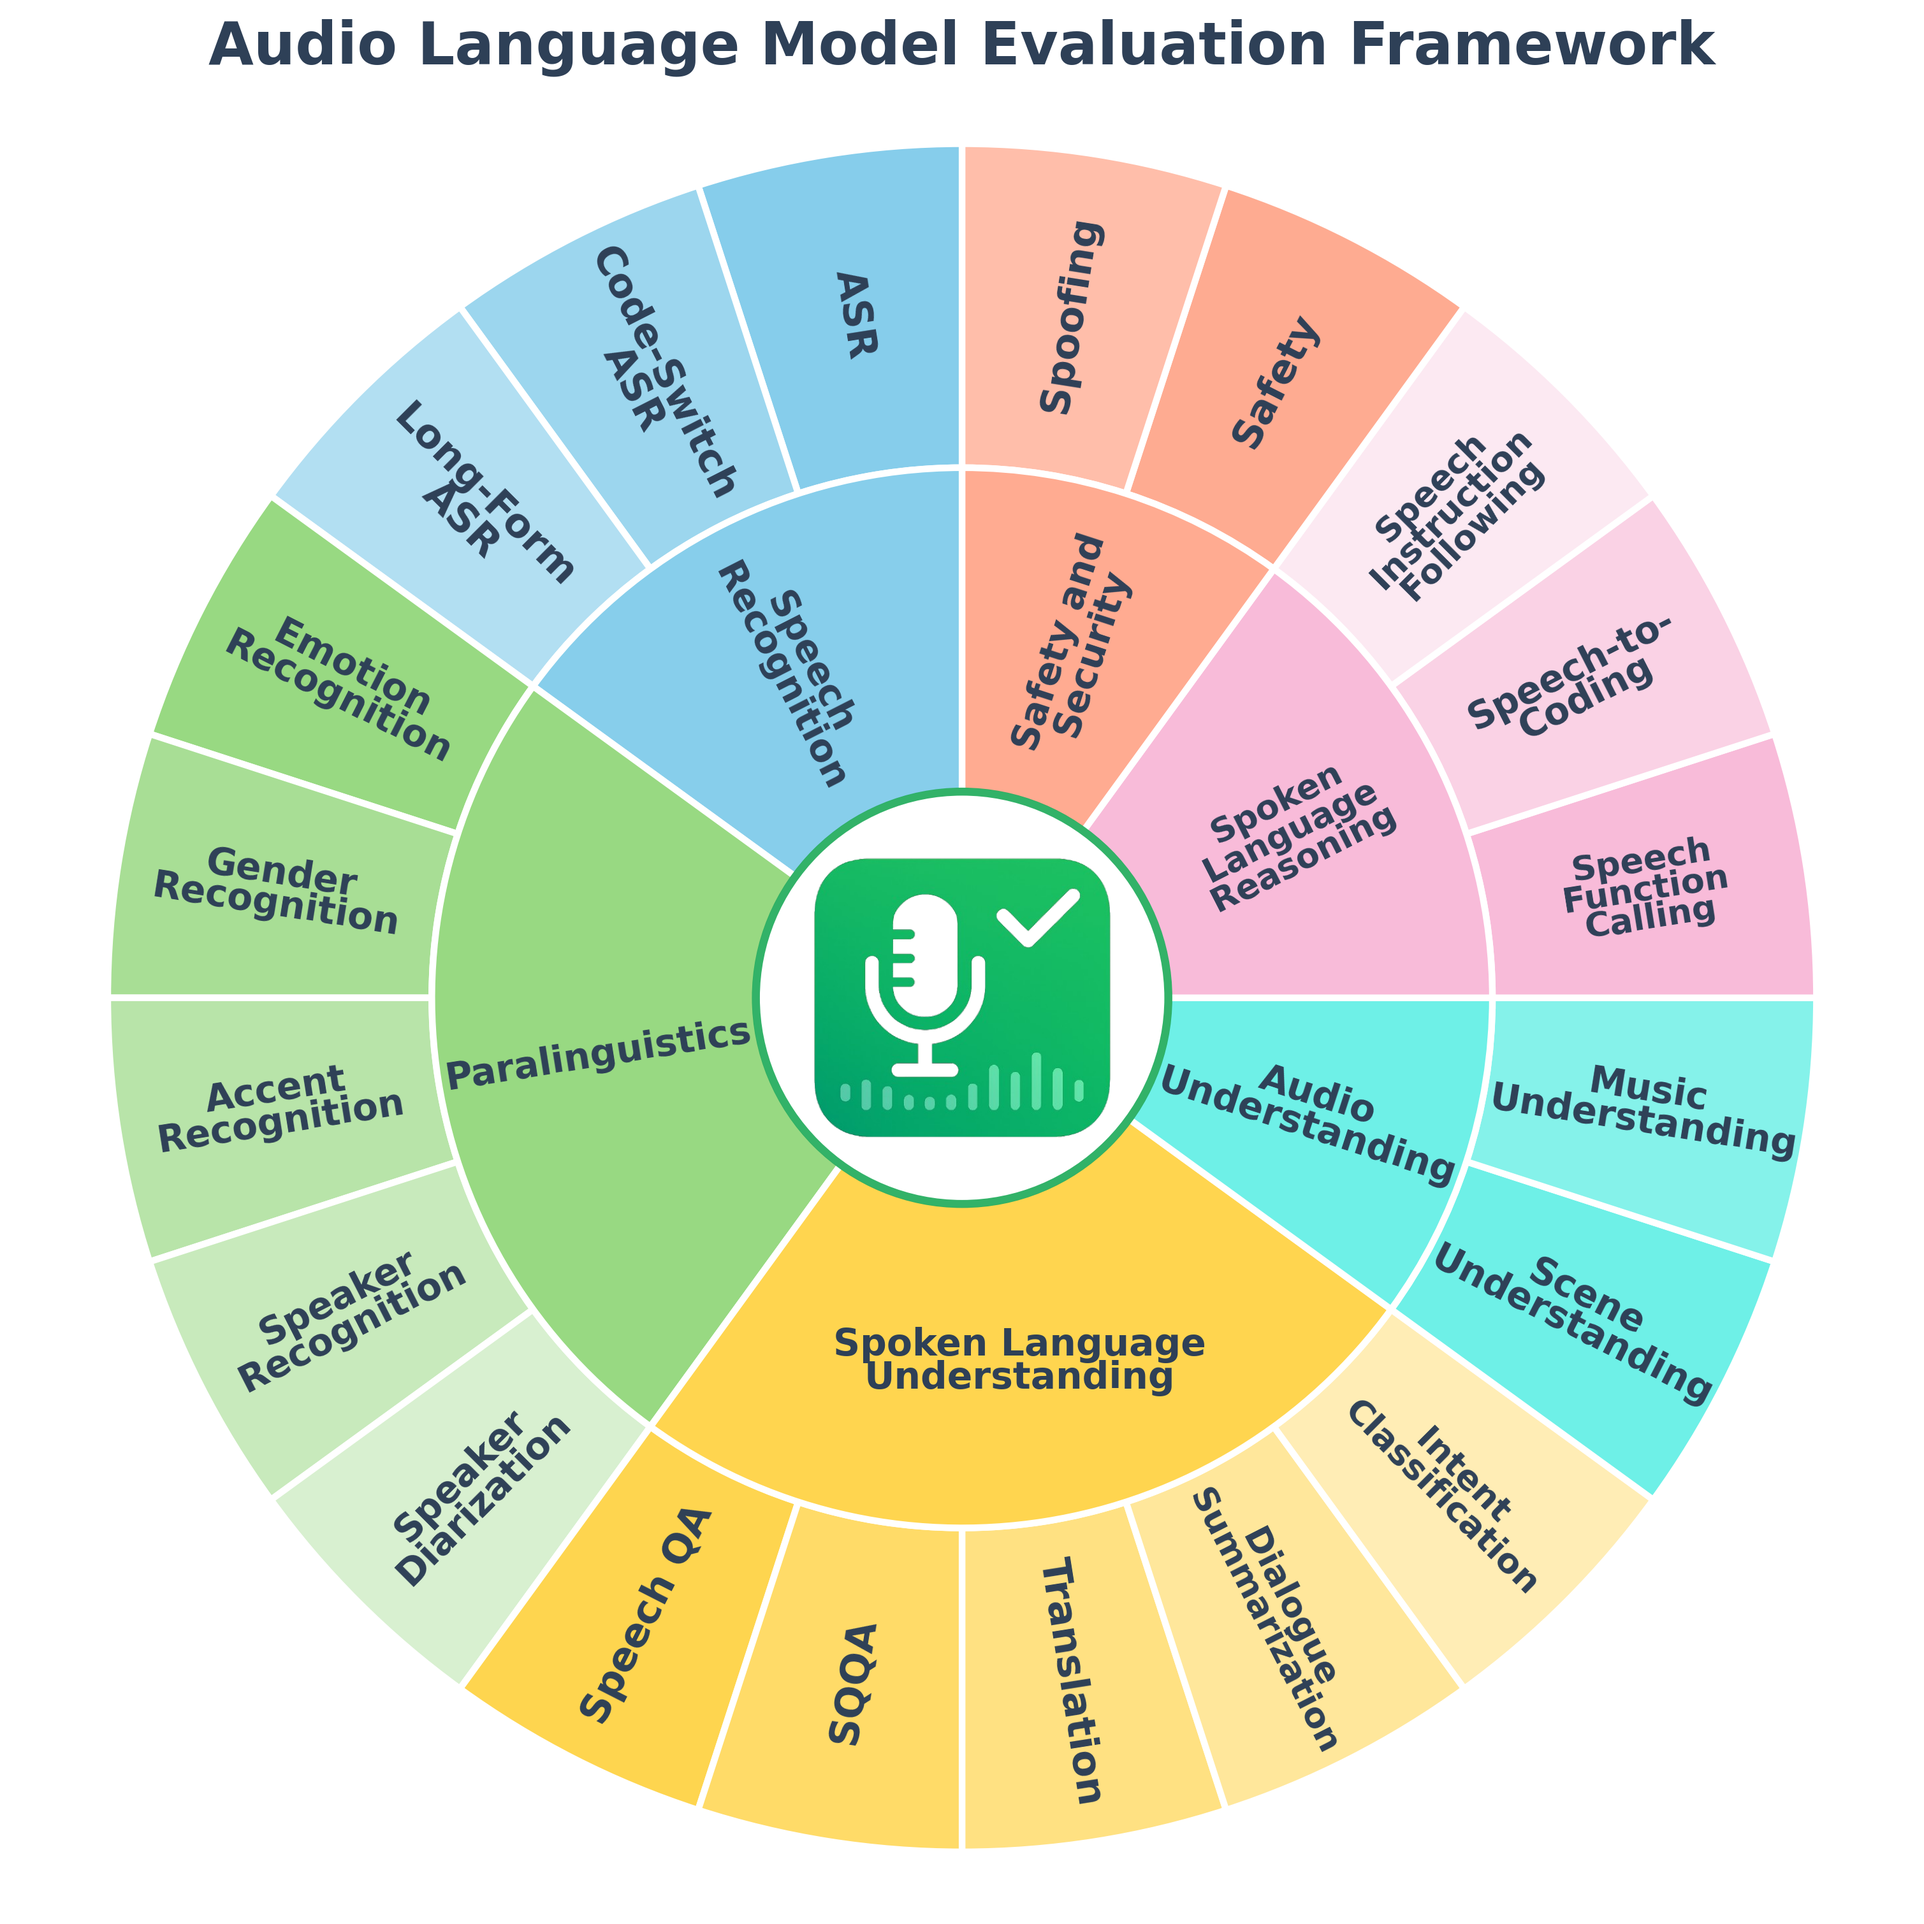
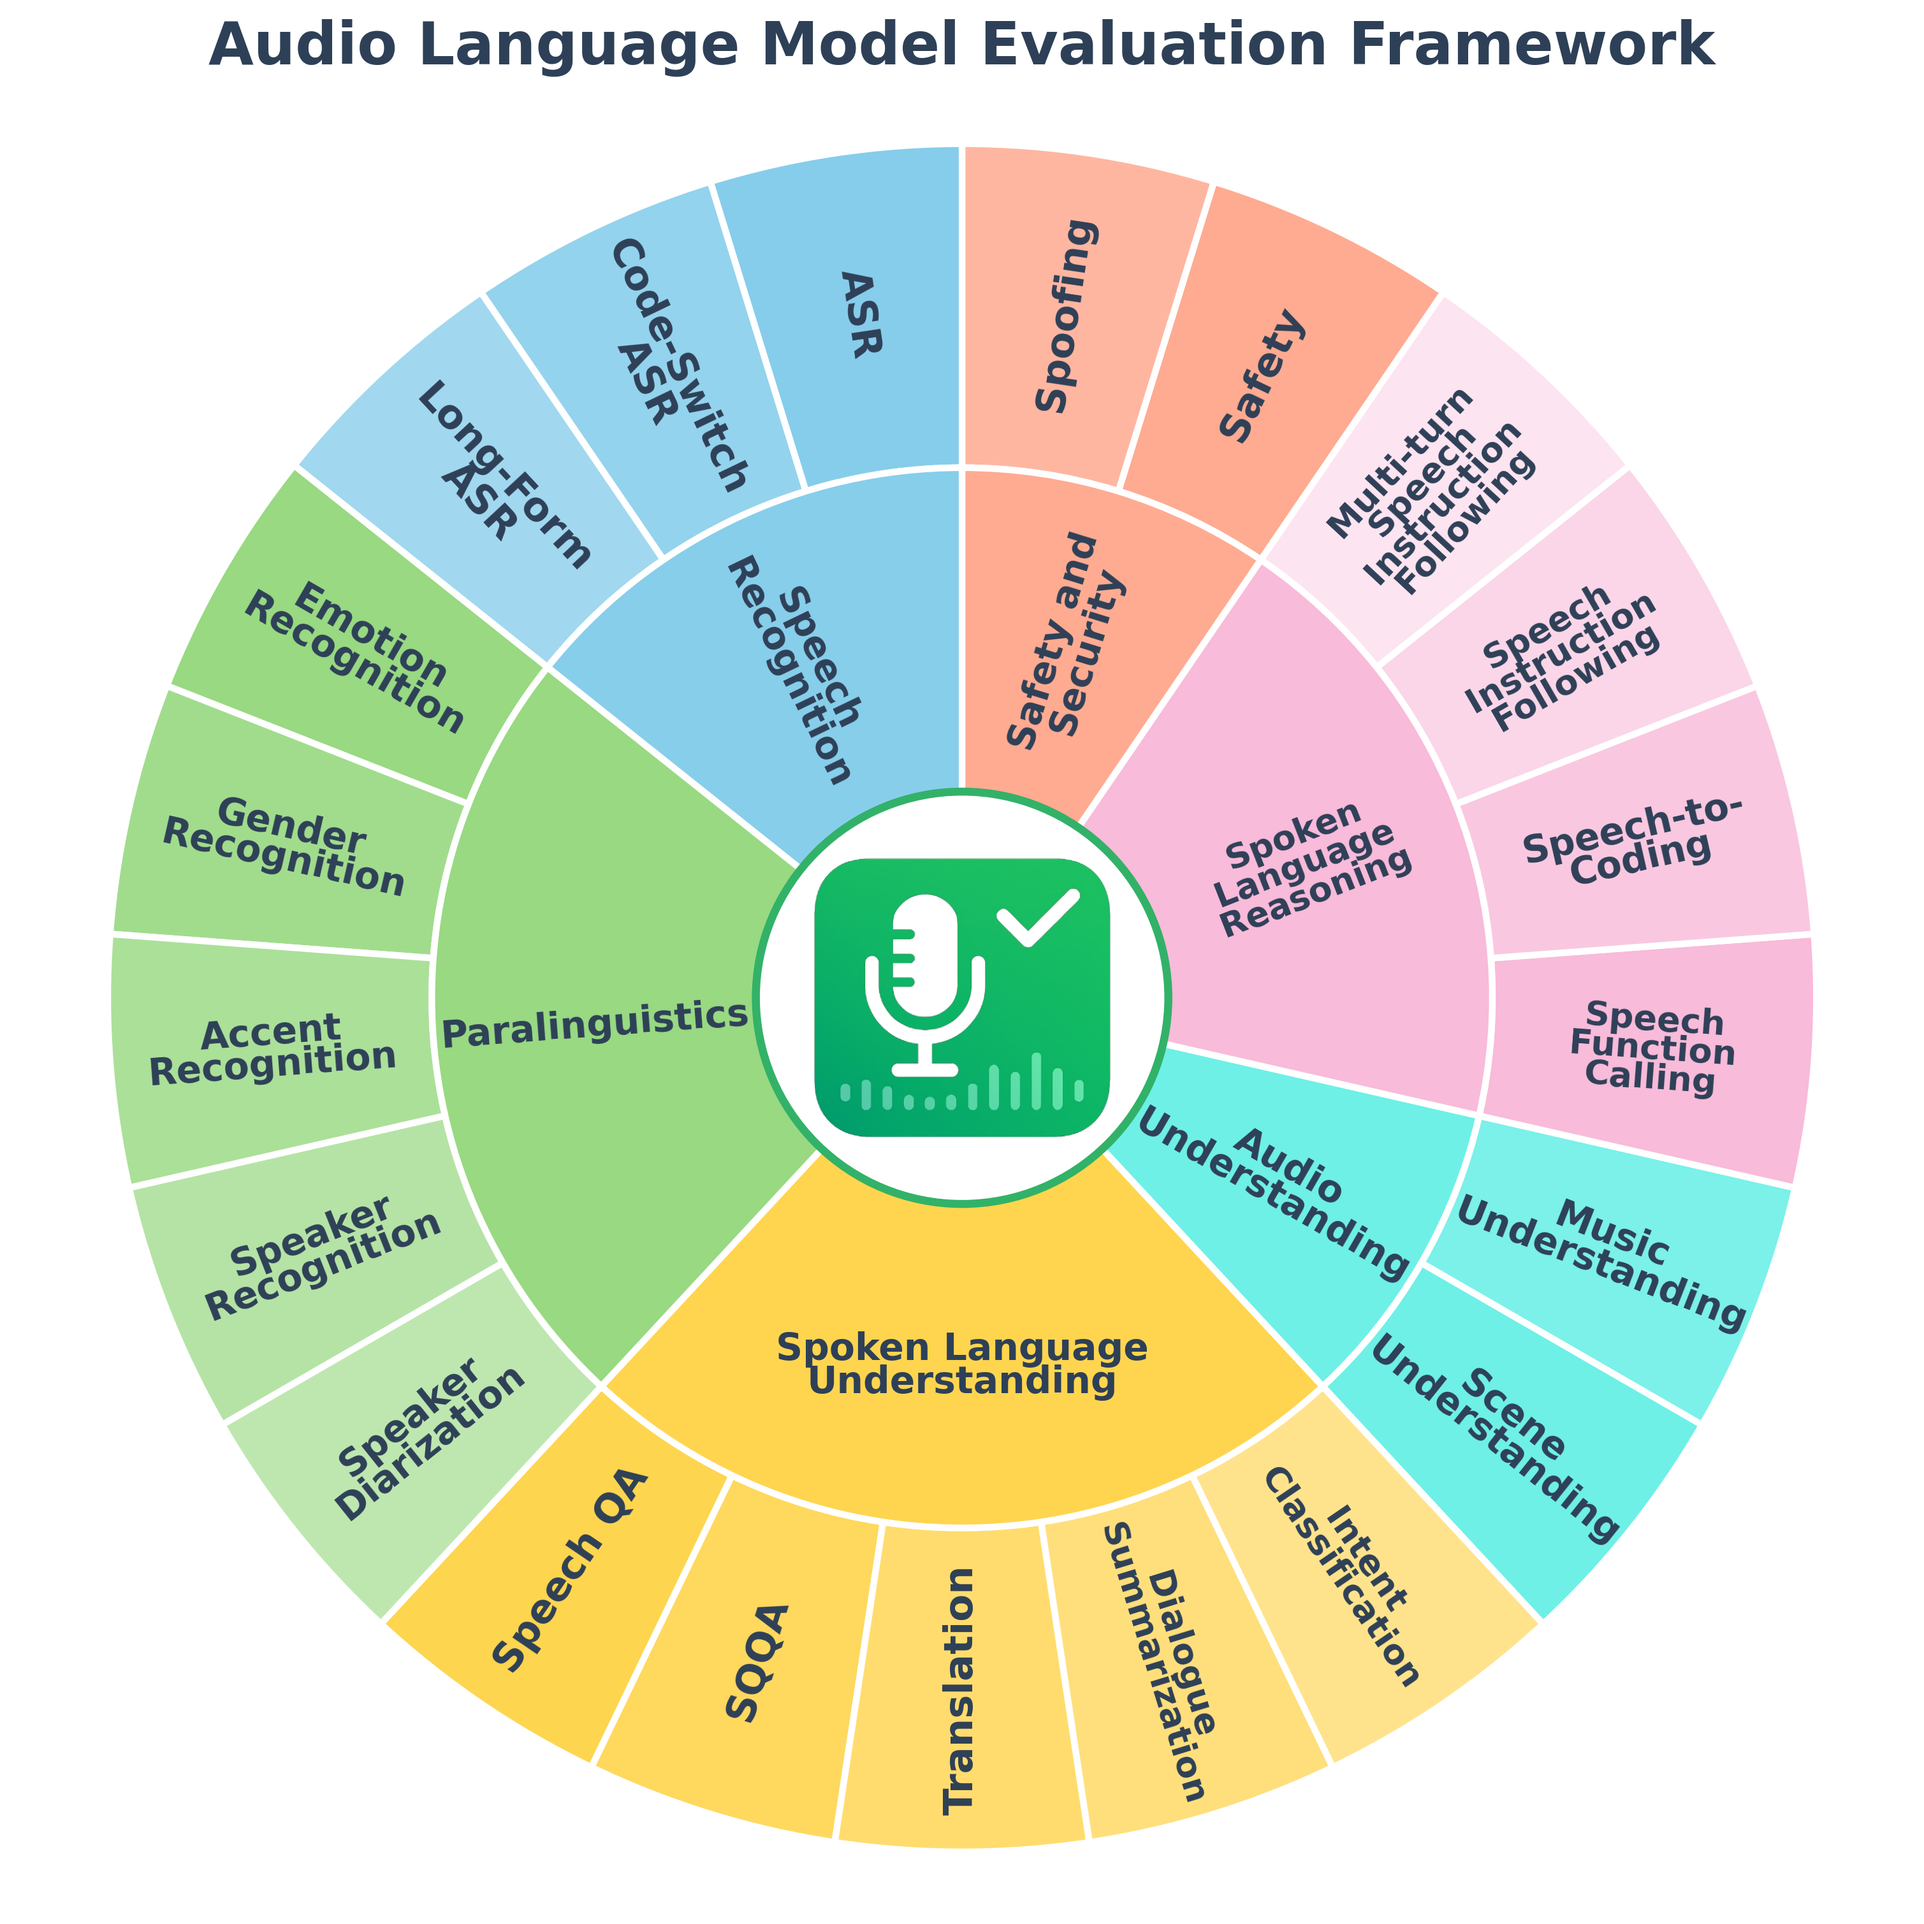
[DOCS] Update README.md | Change name to LALM-Eval (#7)
* Update README.md | Change name to LALM-Eval

* Update CONTRIBUTING.md with updated name

* Replacing figures with updated framework name. Adding the new title in landing page README for consistency

* Updating figures of taxonomy and efficiency comparison

---------

diff --git a/README.md b/README.md
@@ -1,15 +1,15 @@
 <div align="center" style="margin-bottom: 1em;">
 
-**HEAR-Kit: Holistic Evaluation of AudioLLM Responses**
+**LALM-Eval: An Open-Source Toolkit for Holistic Evaluation of Large Audio Language Models**
 
 *Comprehensive • Fast • Reproducible*
 
-<img src="assets/images/ver-1-bg.png" alt="HEAR-Kit Brand Logo" width="200">
+<img src="assets/images/ver-1-bg.png" alt="LALM-Eval Brand Logo" width="200">
 
 [![Python 3.9+](https://img.shields.io/badge/python-3.9+-blue.svg)](https://www.python.org/downloads/)
 [![License](https://img.shields.io/badge/License-Apache%202.0-green.svg)](https://opensource.org/licenses/Apache-2.0)
-[![Version](https://img.shields.io/badge/version-0.1.0-orange.svg)](https://github.com/ServiceNow/HEAR-Kit)
-[![PRs Welcome](https://img.shields.io/badge/PRs-welcome-brightgreen.svg)](https://github.com/ServiceNow/HEAR-Kit/pulls)
+[![Version](https://img.shields.io/badge/version-0.1.0-orange.svg)](https://github.com/ServiceNow/LALM-Eval)
+[![PRs Welcome](https://img.shields.io/badge/PRs-welcome-brightgreen.svg)](https://github.com/ServiceNow/LALM-Eval/pulls)
 
 **🎯 50+ Datasets • 🚀 380+ Subsets • 📊 9 Metrics • 🔊 21 Audio Tasks**
 
@@ -17,10 +17,10 @@
 
 ## 📋 Overview
 
-HEAR-Kit is a standardized, efficient and highly customizable open-source framework for evaluating audio-based language models on Audio-to-Text tasks. Built for researchers and developers, HEAR-Kit provides a comprehensive suite of tools to benchmark and compare the performance of various audio processing models across a wide range of tasks.
+LALM-Eval is a standardized, efficient and highly customizable open-source framework for evaluating audio-based language models on Audio-to-Text tasks. Built for researchers and developers, LALM-Eval provides a comprehensive suite of tools to benchmark and compare the performance of various audio processing models across a wide range of tasks.
 
 
-## ❓ Why HEAR-Kit?
+## ❓ Why LALM-Eval?
 
 1. 🚀 **Blazing Fast**:
    - Multiple models can be evaluated simultaneously across multiple tasks, datasets and metrics using independent Engines, enabling full parallelization of the evaluation pipeline
@@ -49,7 +49,7 @@ HEAR-Kit is a standardized, efficient and highly customizable open-source framew
 ## 📊 Task Taxonomy & Structure
 
 <div align="center" style="margin: 30px 0;">
-  <img src="assets/images/taxonomy.png" alt="HEAR-Kit Task Taxonomy" style="width: 60%; max-width: 600px; border-radius: 16px; box-shadow: 0 10px 30px rgba(0,0,0,0.15);">
+  <img src="assets/images/taxonomy.png" alt="LALM-Eval Task Taxonomy" style="width: 60%; max-width: 600px; border-radius: 16px; box-shadow: 0 10px 30px rgba(0,0,0,0.15);">
 </div>
 
 ### 📁 Task Organization
@@ -119,7 +119,7 @@ HEAR-Kit is a standardized, efficient and highly customizable open-source framew
 <p align='center'>
   <img src="assets/images/overview.png" alt="Taxonomy Figure" width="80%", height="auto"/>
 </p>
-The evaluation flow in HEAR-Kit follows a highly concurrent architecture:
+The evaluation flow in LALM-Eval follows a highly concurrent architecture:
 
 1. **Configuration & Initialization**: The system parses `config.yaml` to load models, datasets, metrics, and other evaluation parameters.
 
@@ -146,8 +146,8 @@ Get up and running in under a minute:
 
 ```bash
 # Clone and install
-git clone https://github.com/ServiceNow/HEAR-Kit.git
-cd HEAR-Kit
+git clone https://github.com/ServiceNow/LALM-Eval.git
+cd LALM-Eval
 pip install -r requirements.txt
 
 # Run your first evaluation
@@ -159,9 +159,9 @@ Results will be generated in `run_logs/` with detailed metrics and analysis.
 
 ## 💻 Usage
 
-HEAR-Kit requires setting up a running configuration file (`config.yaml`) to define your evaluation parameters. This file controls which models, datasets, and metrics are used in your evaluation.
+LALM-Eval requires setting up a running configuration file (`config.yaml`) to define your evaluation parameters. This file controls which models, datasets, and metrics are used in your evaluation.
 
-To get started with HEAR-Kit:
+To get started with LALM-Eval:
 
 1. Clone this repository
 2. Setup your environment:
@@ -302,7 +302,7 @@ judge_properties:
 ### 📝 Task Configuration Options
 #### Adding Datasets
 
-HEAR-Kit supports adding custom tasks through `task_config` YAML files. These files define the task properties and how they should be processed.
+LALM-Eval supports adding custom tasks through `task_config` YAML files. These files define the task properties and how they should be processed.
 
 #### Creating a TaskConfig File
 
@@ -391,22 +391,22 @@ Once your run finishes, you can inspect the outputs in a few ways:
 
 ## 📝 Acknowledgement
 
-HEAR-Kit incorporates some of the design elements and reusable components from ServiceNow's comprehensive internal benchmarking platform, namely CLAE. We'd like to thank the CLAE team for their invaluable feedback and suggestions.
+LALM-Eval incorporates some of the design elements and reusable components from ServiceNow's comprehensive internal benchmarking platform, namely CLAE. We'd like to thank the CLAE team for their invaluable feedback and suggestions.
 
 ## 📝 Citation
 
-If you use HEAR-Kit in your research, please cite our work:
+If you use LALM-Eval in your research, please cite our work:
 
 ```bibtex
-@software{HEAR-Kit2025,
-  title = {HEAR-Kit: A Comprehensive Audio Multimodal LLM Evaluation Toolkit},
+@software{LALM-Eval2025,
+  title = {LALM-Eval: An Open-Source Toolkit for Holistic Evaluation of Large Audio Language Models},
   author = {ServiceNow},
   year = {2025},
-  url = {https://github.com/ServiceNow/HEAR-Kit},
+  url = {https://github.com/ServiceNow/LALM-Eval},
   version = {0.1.0}
 }
 ```
 
 ## 📄 License
 
-HEAR-Kit is licensed under the Apache 2.0 License.
+LALM-Eval is licensed under the Apache 2.0 License.

diff --git a/CONTRIBUTING.md b/CONTRIBUTING.md
@@ -1,6 +1,6 @@
 # Contributing
 
-Thank you for considering contributing to HEAR-Kit!  
+Thank you for considering contributing to LALM-Eval!  
 We welcome contributions of all kinds — new metrics, dataset and task integrations, bug fixes, documentation improvements, and more.  
 
 Please follow the guidelines below to keep the project consistent and easy to maintain.
